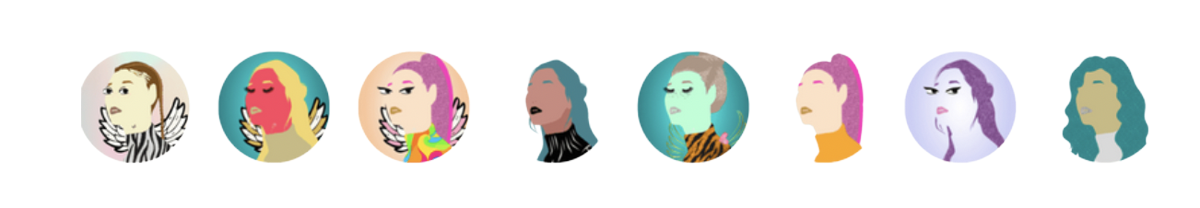
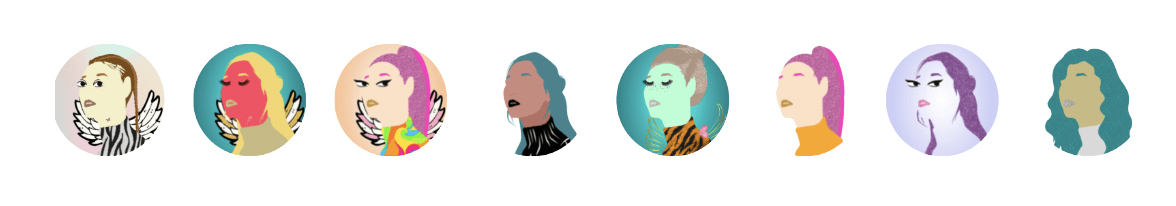
i added images to the header

diff --git a/src/components/Header.jsx b/src/components/Header.jsx
@@ -1,6 +1,9 @@
+import sheNft from "../assets/bg-transparent.png"
+
+
 const Header = () => {
   return (
-    <div className="bg-cover bg-center h-full header">
+    <div className="bg-cover bg-center min-h-screen header">
       <nav className="flex justify-between items-center p-4 px-20">
         <img
           src="https://uploads-ssl.webflow.com/63547883d13ee963134e3f68/6359e13b1f520c343d4beff9_d-p-500.png"
@@ -24,7 +27,7 @@ const Header = () => {
           Join WhiteListing
         </button>
         <img
-          src="https://o.remove.bg/downloads/830e4ac4-fb63-4544-9afb-161c75f88c59/Screenshot_2022-12-24_at_11.02.37_PM-removebg-preview.png "
+          src={sheNft}
           alt="" className="w-1/2"
         />
         <div className="flex justify-between w-1/2">

diff --git a/src/App.jsx b/src/App.jsx
@@ -6,7 +6,7 @@ import WhiteList from "./components/WhiteList"
 
 const App = () => {
   return (
-    <div className="bg-[#fffdfd] h-screen">
+    <div className="bg-[#fffdfd]">
       <Header/>
       <WhiteList/>
       <Network/>
